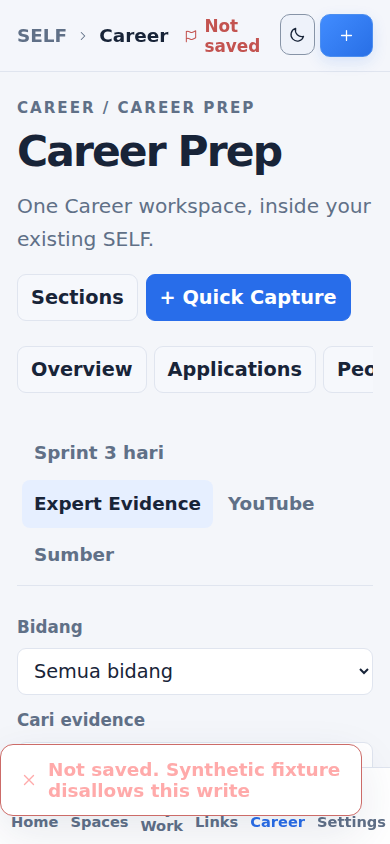
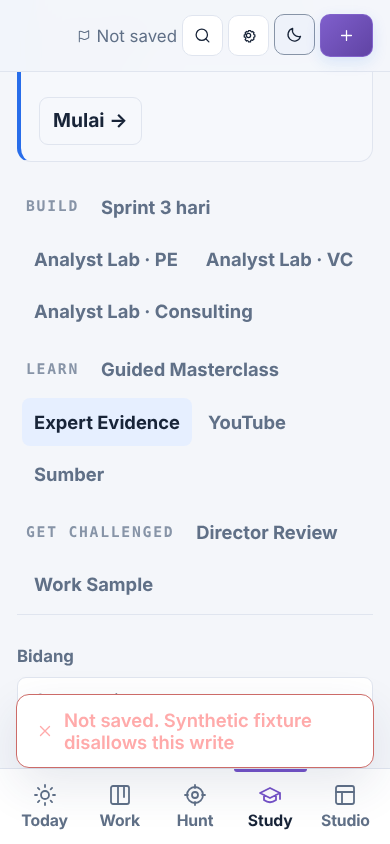
feat(multiuser): Study owner-only and untracked, Hunt open to everyone
- access.js gates Study (and Hunt Radar) to the owner account; other
  accounts get Today, Work, Hunt and Studio with no Study door, palette
  entry, page or synced progress.
- user_kv now syncs only Today pins and Work saved views.
- Hunt defaults made neutral: industries and drop reasons.
- Tests updated; new coverage for non-owner rooms and palette.

Claude-Session: https://claude.ai/code/session_01LD4i1vntGuNepnzdRNex5C

diff --git a/app.js b/app.js
@@ -78,7 +78,7 @@ function chrome(content,heading='Home'){
  const brand=`<div class="brand"><span class="brand-square">${ic('sparkle')}</span><span class="brand-text">SELF</span><button type="button" class="sidebar-toggle" data-action="toggle-sidebar" aria-label="${state.sidebarCollapsed?'Expand navigation':'Collapse navigation'}" aria-expanded="${!state.sidebarCollapsed}" title="${state.sidebarCollapsed?'Expand navigation':'Collapse navigation'}">${ic('menu')}</button></div>`;
  const foot=`<div class="sidebar-foot">${nav('settings','Settings','settings')}<div class="profile"><span class="avatar">${esc(name[0]||'S').toUpperCase()}</span><span class="profile-text"><strong>${esc(name)}</strong><small>Personal workspace</small></span></div></div>`;
  const R=useRooms()?window.SELFRooms:null;
- const rctx=R&&{view:state.view,careerPage:window.SELFCareer?.ui?.page,tasks:state.tasks,boards:state.boards,interviews:window.SELFCareerPhase2?.ui?.interviews,today:today(),ic,esc};
+ const rctx=R&&{study:studyOn(),view:state.view,careerPage:window.SELFCareer?.ui?.page,tasks:state.tasks,boards:state.boards,interviews:window.SELFCareerPhase2?.ui?.interviews,today:today(),ic,esc};
  const room=R?R.roomOf(state.view,rctx.careerPage):null;
  if(room)lastRoom=room;
  const enter=state.animateNext;state.animateNext=false;
@@ -253,9 +253,10 @@ else if(modal==='subpage')body=`<h2>Create a subpage</h2><p>Give this task room 
 return `<div class="modal-overlay" data-action="close-modal"><div class="modal"><div class="panel-top"><span class="small-sub">SELF / Quick create</span><button class="icon-btn" data-action="close-modal" title="Close">${ic('close')}</button></div>${body}</div></div>`}
 function renderAuth(){return `<div class="auth-shell"><div class="auth-visual"><div class="brand" style="color:#fff;padding-left:0"><span class="brand-square">${ic('sparkle')}</span> SELF</div><div><div class="eyebrow" style="color:#a8c4ff">Your space to think</div><h1>One place for<br/>all the things<br/>on your mind.</h1><p>Capture your ideas. Keep your work moving. Connect the pieces of what you're learning — all in a workspace that's yours.</p></div><div class="small-sub">✳ Made for a mind that never stops.</div></div><div class="auth-login"><div class="auth-box"><div class="brand" style="padding-left:0"><span class="brand-square">${ic('sparkle')}</span> SELF</div><h2>${state.loginMode==='signin'?'Welcome back.':'Create your space.'}</h2><p class="subtitle" style="margin-bottom:30px">${state.loginMode==='signin'?'Good to have you here. Let’s get something done.':'All you need is your email and a password.'}</p>${state.authMessage?`<p class="message ${state.authMessage.toLowerCase().includes('error')?'error':''}">${esc(state.authMessage)}</p>`:''}<form id="auth-form" class="form-stack"><label class="form-label">Email address<input class="field" type="email" name="email" autocomplete="email" required placeholder="you@example.com"/></label><label class="form-label">Password<input class="field" type="password" name="password" autocomplete="${state.loginMode==='signin'?'current-password':'new-password'}" required minlength="6" placeholder="At least 6 characters"/></label><button class="primary-btn" type="submit">${state.loginMode==='signin'?'Sign in':'Create account'} ${ic('chevron')}</button></form><div class="auth-bottom">${state.loginMode==='signin'?`New to SELF? <button data-action="auth-toggle">Create an account</button>`:`Already have an account? <button data-action="auth-toggle">Sign in</button>`}</div><p class="small-sub" style="margin-top:35px">Private workspace · Your tasks and notes are visible only to your account.</p></div></div></div>`}
 function render(){if(!state.user){$('#app').innerHTML=renderAuth();return}if(state.view==='board-editor'&&window.SELFBoards?.updateInPlace?.()){paintSave();return}const pages={home:['Home',useRooms()&&window.SELFToday?renderToday:renderHome],spaces:['Spaces',renderSpaces],space:['Space',renderSpace],boards:['Boards',renderBoards],'board-editor':['Whiteboard',()=>window.SELFBoards?.renderEditor?.()||empty('Board unavailable','Reload this page.')],work:['My Work',renderWork],career:['Career',()=>window.SELFCareer?.render?.()||empty('Career unavailable','Try reloading SELF.')],links:['My Links',renderLinks],inbox:['Inbox',renderInbox],search:['Search',renderSearch],settings:['Settings',renderSettings]};const [title,fn]=pages[state.view]||pages.home;$('#app').innerHTML=chrome(fn(),title);paintSave();window.SELFRooms?.afterRender?.();window.SELFDnd?.afterRender?.();window.SELFMotion?.afterRender?.()}
+const studyOn=()=>!!window.SELFAccess?.study?.(state.user);
 function go(view,opts={}){if(view!=='work')window.SELFWork?.leave?.();state.view=view;state.taskId=null;state.pageId=null;state.modal=null;if(view==='career'||view==='links')window.SELFCareer?.enter?.();if(view==='career'&&opts.room)window.SELFRooms?.alignCareer?.(opts.room);state.animateNext=true;render();window.scrollTo({top:0,behavior:'instant'})}
 async function changeTheme(next,origin){const to=next||(state.preferences.theme==='dark'?'light':'dark');const apply=()=>{setTheme(to);render()};if(window.SELFMotion)window.SELFMotion.themeSwitch(apply,origin);else apply();await mutate(async()=>savePref(),null)}
-function goRoom(id){const r=window.SELFRooms?.ROOMS.find(x=>x.id===id);if(r)go(r.view,{room:id})}
+function goRoom(id){if(!studyOn()&&id==='study')return;const r=window.SELFRooms?.ROOMS.find(x=>x.id===id);if(r)go(r.view,{room:id})}
 const urlRegex=/https?:\/\/[^\s<>"']+/gi;
 async function autoCaptureLinks(taskId,text){const urls=[...new Set((text.match(urlRegex)||[]).map(s=>s.replace(/[),.;!?]+$/,'')).filter(u=>normalUrl(u)))];const existing=state.links.filter(x=>x.task_id===taskId);for(const url of urls){if(!existing.some(x=>x.url===normalUrl(url))){await insert('task_links',{task_id:taskId,url:normalUrl(url),title:new URL(url).hostname})}}}
 function formData(form){return Object.fromEntries(new FormData(form).entries())}
@@ -353,7 +354,7 @@ document.addEventListener('dragstart',workDragStart);
 document.addEventListener('dragover',workDragOver);
 document.addEventListener('drop',e=>{workDrop(e).catch(error=>toast(error.message,true))});
 document.addEventListener('dragend',workDragEnd);
-document.addEventListener('keydown',e=>{if(window.SELFCareer?.keydown?.(e))return;if(window.SELFWork?.keydown?.(e))return;const rk=state.user&&window.SELFRooms?.roomForKey?.(e);if(rk){e.preventDefault();goRoom(rk);return}if(state.view==='work'&&state.workView==='board'&&e.target?.matches?.('[data-task-drag]')&&(e.key==='Enter'||e.key===' ')){e.preventDefault();state.taskId=e.target.dataset.taskDrag;state.panelTab='overview';render();return}if((e.ctrlKey||e.metaKey)&&e.key.toLowerCase()==='k'){e.preventDefault();if(state.user)go('search')}if(e.key==='Escape'){if(state.modal)state.modal=null;else if(state.pageId)state.pageId=null;else state.taskId=null;render()}if(e.key==='Enter'&&e.target?.id==='quick-text'){e.preventDefault();quickCapture().catch(err=>toast(err.message,true))}});
+document.addEventListener('keydown',e=>{if(window.SELFCareer?.keydown?.(e))return;if(window.SELFWork?.keydown?.(e))return;const rk=state.user&&window.SELFRooms?.roomForKey?.(e,studyOn());if(rk){e.preventDefault();goRoom(rk);return}if(state.view==='work'&&state.workView==='board'&&e.target?.matches?.('[data-task-drag]')&&(e.key==='Enter'||e.key===' ')){e.preventDefault();state.taskId=e.target.dataset.taskDrag;state.panelTab='overview';render();return}if((e.ctrlKey||e.metaKey)&&e.key.toLowerCase()==='k'){e.preventDefault();if(state.user)go('search')}if(e.key==='Escape'){if(state.modal)state.modal=null;else if(state.pageId)state.pageId=null;else state.taskId=null;render()}if(e.key==='Enter'&&e.target?.id==='quick-text'){e.preventDefault();quickCapture().catch(err=>toast(err.message,true))}});
 
 /* Private image assets for the authenticated Concept C whiteboard. */
 async function uploadBoardImage(file){
@@ -456,7 +457,7 @@ window.SELFPalette?.init?.({views:()=>window.SELFWork?.views?.()||[],applyView:i
  openTask:id=>{state.taskId=id;state.panelTab='overview';state.pageId=null;render()},
  openSpace:id=>{state.spaceId=id;state.spaceTab='tasks';go('space')},
  openBoard:id=>window.SELFBoards?.open?.(id),
- careerPage:page=>{const room=page==='learning'?'study':'hunt';go('career',{room});window.SELFCareer?.setPage?.(page)}});
+ careerPage:page=>{if(page==='learning'&&!studyOn())return;const room=page==='learning'?'study':'hunt';go('career',{room});window.SELFCareer?.setPage?.(page)}});
 window.SELFSync?.init?.({state:()=>state,request});window.SELFToday?.init?.({state:()=>state,esc,attr,ic,today,spaceOf,statusOf,dueBadge,rank:todayRank,insert,patch,del,mutate,toast,render,go});window.SELFReview?.init?.({host:{state:()=>state,today,render}});window.SELFNextUp?.init?.({host:{state:()=>state,render}});window.SELFWork?.init?.({host:{state:()=>state,patch,del,mutate,toast,render,go,STATUSES,PRIORITIES,statusName:s=>statusOf(s)[1]}});window.SELFExportUI?.init?.({host:{state:()=>state,toast}});
 verifySession();
 

diff --git a/career.js b/career.js
@@ -12,6 +12,7 @@ const HIRING=[['wishlist','Wishlist'],['applied','Applied'],['interviewing','Int
 const RELATIONSHIPS=[['new','Found'],['connect_sent','Connect sent'],['connected','Connected'],['reached_out','Approached'],['in_conversation','Talking'],['maintain','Ally'],['no_reply','No reply']];
 const TYPES={company:'career_companies',person:'career_people',application:'career_applications'};
 const names={company:'Company',person:'Person',application:'Application'};
+const studyOk=()=>!!window.SELFAccess?.study?.(host?.state?.()?.user);
 const ui={page:'tracker',railCollapsed:false,ready:false,loading:false,error:'',
  companies:[],people:[],applications:[],drawer:null,modal:null,dirty:false,busy:false,saveError:'',generation:0,owner:null};
 let host=null;
@@ -192,14 +193,16 @@ function drawerMarkup(){
  '<p class="career-drawer-note">Career status and Task status remain independent, with explicit links between records.</p></div></aside></div>';
 }
 /* ---- Rooms: Career is hosted inside the Hunt and Study rooms. The classic shell keeps its own rail. ---- */
-const HUNT_PILLS=[['tracker','Tracker'],['overview','Overview'],['applications','Pipeline'],['people','Outreach'],['companies','Companies'],['radar','Radar'],['interviews','Interviews'],['cvs','Kit']];
+const radarOk=()=>!!window.SELFAccess?.radar?.(host?.state?.()?.user);
+const HUNT_PILLS_ALL=[['tracker','Tracker'],['overview','Overview'],['applications','Pipeline'],['people','Outreach'],['companies','Companies'],['radar','Radar'],['interviews','Interviews'],['cvs','Kit']];
+const huntPillList=()=>HUNT_PILLS_ALL.filter(p=>p[0]!=='radar'||radarOk());
 const KIT_PAGES=[['cvs','CV Library'],['templates','Templates'],['reminders','Reminders']];
 const inKit=id=>KIT_PAGES.some(x=>x[0]===id);
 function huntPills(selected){
  const pill=([id,label])=>{const on=selected===id||(id==='cvs'&&inKit(selected));
   return '<button type="button" class="career-pill'+(on?' active':'')+'" data-career="page" data-page="'+id+'" aria-current="'+(on?'page':'false')+'">'+h(label)+'</button>'};
- return '<nav class="career-pills" aria-label="Hunt sections">'+HUNT_PILLS.map(pill).join('')+
-  '<button type="button" class="career-pill career-pill-link" data-career="page" data-page="learning" aria-current="false">Career Prep →</button></nav>'+
+ return '<nav class="career-pills" aria-label="Hunt sections">'+huntPillList().map(pill).join('')+
+  (studyOk()?'<button type="button" class="career-pill career-pill-link" data-career="page" data-page="learning" aria-current="false">Career Prep →</button>':'')+'</nav>'+
   (inKit(selected)?'<div class="career-kit-tabs" role="group" aria-label="Kit">'+KIT_PAGES.map(([id,label])=>
    '<button type="button" class="career-kit-tab'+(selected===id?' active':'')+'" data-career="page" data-page="'+id+'" aria-pressed="'+(selected===id)+'">'+h(label)+'</button>').join('')+'</div>':'');
 }
@@ -236,12 +239,13 @@ function render(){
  const selected=ui.page,title=PAGES.find(x=>x[0]===selected)?.[1]||'Overview';
  const nav=hosted?'<h2 class="sr-only">CAREER STUDIO</h2>':'<nav class="career-rail '+(ui.railCollapsed?'collapsed':'')+'" aria-label="Career subpages"><div class="career-rail-head"><strong>CAREER STUDIO</strong>'+
  button(ui.railCollapsed?'›':'‹','toggle-rail','aria-label="Toggle Career navigation"')+'</div>'+
- PAGES.map(([id,label,icon])=> (id==='cvs'?'<div class="career-rail-category">RESOURCES</div>':'')+
+ PAGES.filter(p=>(p[0]!=='learning'||studyOk())&&(p[0]!=='radar'||radarOk())).map(([id,label,icon])=> (id==='cvs'?'<div class="career-rail-category">RESOURCES</div>':'')+
  '<button type="button" class="career-subnav '+(selected===id?'active':'')+'" data-career="page" data-page="'+id+'" title="'+label+'" aria-current="'+(selected===id?'page':'false')+'">'+
  '<span class="career-nav-symbol">'+(host.icon?host.icon(icon,19):'•')+'</span><span class="career-nav-text">'+label+'</span></button>').join('')+
  '<div class="career-rail-footer">One Career workspace. SELF Tasks, Links and Boards stay connected.</div></nav>';
  let main='';
- if(selected==='learning')main=window.SELFCareerLearning?.render?.()||empty('Career Prep unavailable','Try reloading SELF.');
+ if(selected==='learning'&&!studyOk())main=empty('Not available','This section is not part of your workspace.');
+ else if(selected==='learning')main=window.SELFCareerLearning?.render?.()||empty('Career Prep unavailable','Try reloading SELF.');
  else if(ui.loading&&!ui.ready)main=empty('Opening Career…','Loading your private records.');
  else if(ui.error&&!ui.ready)main=empty('Career could not load',ui.error,primary('Retry loading','retry'));
  else if(selected==='tracker')main=window.SELFTrackerUI?.render?.()||empty('Tracker unavailable','Try reloading SELF.');
@@ -260,7 +264,7 @@ function render(){
  '<p>'+h(selected==='overview'?'Your next steps and actual records. No duplicate to-do system.':'One Career workspace, inside your existing SELF.')+'</p></div>'+
  (hosted?(selected==='learning'?'':'<div class="career-head-actions">'+primary('+ Quick Capture','quick-capture')+'</div>'):'<div class="career-head-actions">'+button('Sections','toggle-sections','aria-label="Choose Career subpage"')+
  primary('+ Quick Capture','quick-capture')+'</div>')+'</header>'+
- (hosted?'':'<div class="career-mobile-sections">'+PAGES.map(([id,label])=>button(label,'page','data-page="'+id+'" class="'+(selected===id?'active':'')+'"')).join('')+'</div>')+
+ (hosted?'':'<div class="career-mobile-sections">'+PAGES.filter(p=>(p[0]!=='learning'||studyOk())&&(p[0]!=='radar'||radarOk())).map(([id,label])=>button(label,'page','data-page="'+id+'" class="'+(selected===id?'active':'')+'"')).join('')+'</div>')+
  (ui.error&&ui.ready?'<p class="career-warning">'+h(ui.error)+' '+button('Retry','retry')+'</p>':'')+
  main+'</div>'+modalMarkup()+drawerMarkup()+(window.SELFCareerPhase2?.modalMarkup?.()||'')+(window.SELFOutreachUI?.overlay?.()||'')+'</div>';
 }
@@ -306,7 +310,7 @@ function enter(){
  if(!ui.ready&&!ui.loading)void load();
 }
 function setPage(id){
- if(!PAGES.some(x=>x[0]===id))return;
+ if(!PAGES.some(x=>x[0]===id)||(id==='learning'&&!studyOk())||(id==='radar'&&!radarOk()))return;
  if(ui.dirty&&!confirm('Discard unsaved edits?'))return;
  if(window.SELFCareerPhase3?.beforeNavigate?.()===false)return;
  window.SELFTrackerUI?.beforeNavigate?.();

diff --git a/rooms.js b/rooms.js
@@ -39,9 +39,11 @@ function doorMarkup(room,active,badge,ic,esc){
  return '<button type="button" class="door" data-action="nav" data-view="'+room.view+'" data-room="'+room.id+'" style="--c:var(--room-'+room.id+')" aria-current="'+(active?'page':'false')+'"'+
   ' aria-label="'+esc(room.label+(badge?' ('+badge.aria+')':''))+'">'+ic(room.icon,24)+'<span>'+esc(room.label)+'</span><small>'+(badge?esc(badge.text):'')+'</small></button>';
 }
+const PRIVATE=['study'];
+const visible=study=>study?ROOMS:ROOMS.filter(r=>!PRIVATE.includes(r.id));
 function doors(ctx){
  const active=roomOf(ctx.view,ctx.careerPage),b=badges(ctx);
- return '<span class="rail-ind" aria-hidden="true"></span>'+ROOMS.map(r=>doorMarkup(r,r.id===active,b[r.id],ctx.ic,ctx.esc)).join('');
+ return '<span class="rail-ind" aria-hidden="true"></span>'+visible(ctx.study).map(r=>doorMarkup(r,r.id===active,b[r.id],ctx.ic,ctx.esc)).join('');
 }
 function sidebar(ctx,brand,foot){
  return '<aside class="sidebar rooms-rail" aria-label="SELF navigation">'+brand+'<nav class="nav-items" aria-label="Rooms">'+doors(ctx)+'</nav>'+foot+'</aside>';
@@ -90,12 +92,12 @@ function afterRender(){
  if(room)last.room=room;
 }
 /* Alt+1..5 switches rooms, except while typing. Returns the room id or null. */
-function roomForKey(e){
+function roomForKey(e,study){
  if(!e.altKey||e.ctrlKey||e.metaKey)return null;
  const t=e.target;if(t&&(t.isContentEditable||/^(INPUT|TEXTAREA|SELECT)$/.test(t.tagName||'')))return null;
- const i=Number(e.key)-1;return Number.isInteger(i)&&i>=0&&i<ROOMS.length?ROOMS[i].id:null;
+ const i=Number(e.key)-1;return Number.isInteger(i)&&i>=0&&i<visible(study).length?visible(study)[i].id:null;
 }
-const api={ROOMS,WORK_PAGES,roomOf,badges,sidebar,bar,subnav,alignCareer,afterRender,roomForKey};
+const api={ROOMS,visible,WORK_PAGES,roomOf,badges,sidebar,bar,subnav,alignCareer,afterRender,roomForKey};
 root.SELFRooms=api;
 if(typeof module!=='undefined'&&module.exports)module.exports=api;
 })(typeof window!=='undefined'?window:globalThis);

diff --git a/palette.js b/palette.js
@@ -75,8 +75,8 @@ function trackItems(ctx,q){
 /* ctx: {tasks,spaces,boards,people,companies,links,statusName,spaceName,capture,canTrack}  ->  [{id,group,label,hint,idx,run}] in display order */
 function buildItems(ctx,query){
  const q=String(query||'').trim();
- const nav=[...ROOM_ITEMS.map(([id,label,hint])=>({group:'Go to',label:'Go to '+label,hint,run:{type:'room',room:id},key:label,offset:'Go to '.length,bonus:40})),
-  ...SECTIONS.map(s=>({group:s.run.type==='theme'?'Actions':'Go to',label:s.label,hint:s.hint,run:s.run})),
+ const nav=[...ROOM_ITEMS.filter(r=>ctx.study||r[0]!=='study').map(([id,label,hint])=>({group:'Go to',label:'Go to '+label,hint,run:{type:'room',room:id},key:label,offset:'Go to '.length,bonus:40})),
+  ...SECTIONS.filter(s=>ctx.study||s.run.page!=='radar').map(s=>({group:s.run.type==='theme'?'Actions':'Go to',label:s.label,hint:s.hint,run:s.run})),
   ...(ctx.views||[]).map(v=>({group:'Go to',label:'View · '+v.name,hint:'Saved Work view',run:{type:'saved-view',id:v.id}}))];
  if(!q)return [...nav.slice(0,5),...nav.filter(n=>['Settings','Search everything','Switch theme'].includes(n.label))].map((n,i)=>({...n,id:'i'+i,idx:[]}));
  const navHits=rank(nav.map(n=>({...n,label:n.label})),q,6);
@@ -108,6 +108,7 @@ function context(query){
  const st=host.state(),c=host.careerUi?.()||{};
  const ctx={tasks:[...st.tasks].sort((a,b)=>(a.status==='done')-(b.status==='done')),spaces:st.spaces,boards:st.boards,links:st.links,
   people:c.ready?c.people:[],companies:c.ready?c.companies:[],views:host.views?host.views():[],spaceName:id=>host.spaceName(id),statusName:s=>host.statusName(s)};
+ ctx.study=!!root.SELFAccess?.study?.(st.user);
  ctx.canTrack=!!host.track;
  ctx.capture=query.trim()?root.SELFCapture.parseCapture(query,{today:host.today(),spaces:st.spaces}):null;
  return ctx;

diff --git a/tracker.js b/tracker.js
@@ -9,9 +9,9 @@ const SOURCES=[['linkedin','LinkedIn'],['linkedin_jobs','LinkedIn Jobs'],['jobst
 const KINDS=[['job','Job'],['person','Person'],['company','Company'],['other','Other']];
 const STATUSES=[['inbox','Inbox'],['active','Active'],['waiting','Waiting'],['done','Done'],['dropped','Dropped']];
 const VIEWS=['today','inbox','all','stale'];
-const DROP_REASONS=['No Indonesia office','No Indonesians there','No vacancy in Indonesia','No careers page','Closed','Not a fit'];
+const DROP_REASONS=['No vacancy','Wrong location','No careers page','Closed','Not a fit'];
 const OUTCOMES=['Applied','Got a reply','Interview','Offer','Rejected','Other'];
-const INDUSTRIES=['Private Equity','Venture Capital','Investment Banking','Consulting','Corporate Finance / Strategy','Asset Management','Banking','Fintech','Tech','Other'];
+const INDUSTRIES=['Private Equity','Venture Capital','Investment Banking','Consulting','Corporate Finance / Strategy','Asset Management','Banking','Fintech','Tech','Software / IT','Healthcare','Education','Marketing / Media','Operations','Design','Other'];
 const STALE_DAYS=14;
 const label=(list,v)=>(list.find(x=>x[0]===v)||[v,v])[1];
 const sourceLabel=v=>label(SOURCES,v),kindLabel=v=>label(KINDS,v),statusLabel=v=>label(STATUSES,v);

diff --git a/user-sync.js b/user-sync.js
@@ -1,11 +1,10 @@
-/* SELF account sync: mirrors per-user browser settings (Today pins, Work saved views, Study progress, review deck,
-   Hunt drafts) into public.user_kv so they follow the account, not the device. Feature files keep reading and writing
+/* SELF account sync: mirrors per-user browser settings (Today pins and Work saved views) into public.user_kv so they follow the account, not the device. Feature files keep reading and writing
    localStorage unchanged; this layer wraps Storage writes for allow-listed keys, pushes them debounced, and pulls on sign-in.
    Sign-out flushes, then wipes the synced keys so the next person on a shared browser starts clean.
    If the table is missing or the network fails, everything keeps working from localStorage. Spec: docs/MULTIUSER_PLAN.md */
 (function(root){
 'use strict';
-const PREFIXES=['self.today.','self.views.','self.review.v1.','self.lesson.v2.','self.study.track.','self.dossier.','self.outreach.','self.tracker.'];
+const PREFIXES=['self.today.','self.views.'];
 const MAX_VALUE=262144;
 const synced=k=>typeof k==='string'&&k.length<=200&&PREFIXES.some(p=>k.startsWith(p))&&!/\.anon(\.|$)/.test(k);
 

diff --git a/access.js b/access.js
@@ -1,0 +1,11 @@
+/* SELF access: who gets Study (the personal finance-career curriculum). Everyone else gets Today, Work, Hunt and Studio:
+   no Study door, palette entry, page or synced progress. Hunt (Tracker, Pipeline, Outreach, Companies) is for every account.
+   This is a UI gate, not a security boundary: the lesson files are public static assets and Career tables are RLS-private. */
+(function(root){
+'use strict';
+const OWNERS=['4e02f8ef-4c27-4547-94a5-176476815a16'];
+const extra=()=>Array.isArray(root.__SELF_CAREER_OWNERS)?root.__SELF_CAREER_OWNERS:[];
+const study=user=>!!user&&typeof user.id==='string'&&(OWNERS.includes(user.id)||extra().includes(user.id));
+root.SELFAccess={study,radar:study,OWNERS};
+if(typeof module!=='undefined')module.exports=root.SELFAccess;
+})(typeof window!=='undefined'?window:globalThis);

diff --git a/index.html b/index.html
@@ -28,6 +28,7 @@
 </head>
 <body data-theme="dark">
   <div id="app"><div class="boot"><span class="boot-mark">✳</span><span>SELF</span></div></div>
+  <script defer src="./access.js"></script>
   <script defer src="./user-sync.js"></script>
   <script defer src="./rooms.js"></script>
   <script defer src="./motion.js"></script>

diff --git a/tools/build_cloudflare.py b/tools/build_cloudflare.py
@@ -6,7 +6,7 @@ import sys
 
 ROOT = Path(__file__).resolve().parent.parent
 OUTPUT = ROOT / "dist"
-ASSETS = ("index.html", "styles.css", "app.js", "user-sync.js", "rooms.js", "rooms.css", "motion.js", "motion.css", "self-dnd.js", "today.js", "capture-parse.js", "palette.js", "boards.css", "boards.js", "canvas-v3.css", "canvas-v3.js", "concept-d.css", "career.js", "career.css", "outreach.js", "outreach.css", "tracker.js", "tracker.css", "dossier.js", "dossier.css", "career-grid.js", "career-visuals.js", "career-review.js", "career-lesson-loop.js", "career-nextup.js", "career-lesson-loop.css", "data-export.js", "work-tools.js", "work-tools.css", "studio-recipes.js", "studio-present.js", "studio-tools.css", "content/studio-recipes.json", "content/career-lessons-v2.json", "career-phase2.js", "career-phase2.css", "career-phase3.js", "career-phase3.css", "career-learning.js", "career-teaching.js", "career-analyst-lab.js", "career-vc-analyst-lab.js", "career-vc-waterfall.js", "career-consulting-lab.js", "career-director-review.js", "career-workbook-check.js", "career-worksample.js", "content/work-samples/index.json", "content/work-samples/pe/brief.md", "content/work-samples/vc/brief.md", "content/work-samples/vc/holdout-cohorts.csv", "content/work-samples/consulting/brief.md", "content/work-samples/consulting/E01.csv", "content/work-samples/consulting/E02.csv", "content/work-samples/consulting/E03.csv", "content/work-samples/consulting/E04.csv", "content/work-samples/consulting/E05.csv", "content/work-samples/consulting/E06.csv", "content/career-director-review/review-panels.json", "career-pe-projection.js", "career-pe-sensitivity.js", "career-portfolio.js", "career-kits.js", "career-learning.css", "content/career-learning.json", "content/career-teaching.json", "content/portfolio-sprint.md", "content/career-kits/PE_LBO_Starter.xlsx.b64", "content/career-kits/VC_Investment_Starter.xlsx.b64", "content/career-kits/Consulting_Profitability_Starter.xlsx.b64")
+ASSETS = ("index.html", "styles.css", "app.js", "access.js", "user-sync.js", "rooms.js", "rooms.css", "motion.js", "motion.css", "self-dnd.js", "today.js", "capture-parse.js", "palette.js", "boards.css", "boards.js", "canvas-v3.css", "canvas-v3.js", "concept-d.css", "career.js", "career.css", "outreach.js", "outreach.css", "tracker.js", "tracker.css", "dossier.js", "dossier.css", "career-grid.js", "career-visuals.js", "career-review.js", "career-lesson-loop.js", "career-nextup.js", "career-lesson-loop.css", "data-export.js", "work-tools.js", "work-tools.css", "studio-recipes.js", "studio-present.js", "studio-tools.css", "content/studio-recipes.json", "content/career-lessons-v2.json", "career-phase2.js", "career-phase2.css", "career-phase3.js", "career-phase3.css", "career-learning.js", "career-teaching.js", "career-analyst-lab.js", "career-vc-analyst-lab.js", "career-vc-waterfall.js", "career-consulting-lab.js", "career-director-review.js", "career-workbook-check.js", "career-worksample.js", "content/work-samples/index.json", "content/work-samples/pe/brief.md", "content/work-samples/vc/brief.md", "content/work-samples/vc/holdout-cohorts.csv", "content/work-samples/consulting/brief.md", "content/work-samples/consulting/E01.csv", "content/work-samples/consulting/E02.csv", "content/work-samples/consulting/E03.csv", "content/work-samples/consulting/E04.csv", "content/work-samples/consulting/E05.csv", "content/work-samples/consulting/E06.csv", "content/career-director-review/review-panels.json", "career-pe-projection.js", "career-pe-sensitivity.js", "career-portfolio.js", "career-kits.js", "career-learning.css", "content/career-learning.json", "content/career-teaching.json", "content/portfolio-sprint.md", "content/career-kits/PE_LBO_Starter.xlsx.b64", "content/career-kits/VC_Investment_Starter.xlsx.b64", "content/career-kits/Consulting_Profitability_Starter.xlsx.b64")
 
 
 def main() -> int:
@@ -26,7 +26,7 @@ def main() -> int:
         print(f"  copied {asset} -> dist/{asset}")
 
     html = (OUTPUT / "index.html").read_text(encoding="utf-8")
-    required = ('href="./styles.css"', 'href="./rooms.css"', 'href="./motion.css"', 'src="./user-sync.js"', 'src="./rooms.js"', 'src="./motion.js"', 'src="./self-dnd.js"', 'src="./today.js"', 'src="./capture-parse.js"', 'src="./palette.js"', 'href="./boards.css"', 'src="./canvas-v3.js"', 'href="./canvas-v3.css"', 'href="./concept-d.css"', 'href="./career.css"', 'src="./career.js"', 'src="./outreach.js"', 'src="./tracker.js"', 'src="./dossier.js"', 'href="./dossier.css"', 'href="./outreach.css"', 'href="./tracker.css"', 'src="./career-grid.js"', 'src="./career-visuals.js"', 'src="./career-review.js"', 'src="./career-lesson-loop.js"', 'src="./career-nextup.js"', 'href="./career-lesson-loop.css"', 'src="./data-export.js"', 'src="./work-tools.js"', 'href="./work-tools.css"', 'src="./studio-recipes.js"', 'src="./studio-present.js"', 'href="./studio-tools.css"', 'src="./career-phase2.js"', 'href="./career-phase2.css"', 'src="./career-phase3.js"', 'href="./career-phase3.css"', 'src="./app.js"', 'src="./career-learning.js"', 'src="./career-teaching.js"', 'src="./career-analyst-lab.js"', 'src="./career-vc-analyst-lab.js"', 'src="./career-vc-waterfall.js"', 'src="./career-consulting-lab.js"', 'src="./career-director-review.js"', 'src="./career-workbook-check.js"', 'src="./career-worksample.js"', 'src="./career-pe-projection.js"', 'src="./career-pe-sensitivity.js"', 'src="./career-portfolio.js"', 'src="./career-kits.js"', 'href="./career-learning.css"')
+    required = ('href="./styles.css"', 'href="./rooms.css"', 'href="./motion.css"', 'src="./access.js"', 'src="./user-sync.js"', 'src="./rooms.js"', 'src="./motion.js"', 'src="./self-dnd.js"', 'src="./today.js"', 'src="./capture-parse.js"', 'src="./palette.js"', 'href="./boards.css"', 'src="./canvas-v3.js"', 'href="./canvas-v3.css"', 'href="./concept-d.css"', 'href="./career.css"', 'src="./career.js"', 'src="./outreach.js"', 'src="./tracker.js"', 'src="./dossier.js"', 'href="./dossier.css"', 'href="./outreach.css"', 'href="./tracker.css"', 'src="./career-grid.js"', 'src="./career-visuals.js"', 'src="./career-review.js"', 'src="./career-lesson-loop.js"', 'src="./career-nextup.js"', 'href="./career-lesson-loop.css"', 'src="./data-export.js"', 'src="./work-tools.js"', 'href="./work-tools.css"', 'src="./studio-recipes.js"', 'src="./studio-present.js"', 'href="./studio-tools.css"', 'src="./career-phase2.js"', 'href="./career-phase2.css"', 'src="./career-phase3.js"', 'href="./career-phase3.css"', 'src="./app.js"', 'src="./career-learning.js"', 'src="./career-teaching.js"', 'src="./career-analyst-lab.js"', 'src="./career-vc-analyst-lab.js"', 'src="./career-vc-waterfall.js"', 'src="./career-consulting-lab.js"', 'src="./career-director-review.js"', 'src="./career-workbook-check.js"', 'src="./career-worksample.js"', 'src="./career-pe-projection.js"', 'src="./career-pe-sensitivity.js"', 'src="./career-portfolio.js"', 'src="./career-kits.js"', 'href="./career-learning.css"')
     if not all(reference in html for reference in required):
         print("SELF build failed: index.html asset references changed.", file=sys.stderr)
         return 1

diff --git a/docs/MULTIUSER_PLAN.md b/docs/MULTIUSER_PLAN.md
@@ -1,6 +1,6 @@
 # SELF multi-user plan (open signups)
 
-Goal: anyone can create an account; every account sees only its own data. Rooms in scope: **Today, Work, Study, Studio**. Hunt stays Rey's personal room for now.
+Goal: anyone can create an account; every account sees only its own data. Rooms for everyone: **Today, Work, Hunt, Studio**. **Study** (finance-career curriculum) is owner-only and untracked: `access.js` lists the owner user id; other accounts get no Study door, palette entry, page or synced progress. Hunt Radar (finance clusters, Jakarta) is owner-only too. Hunt Tracker, Pipeline, Outreach, Companies, Interviews and Kit are open to everyone, with neutral industries and drop reasons.
 
 ## Already true (audited 2026-10-26, project `btiwxqjiptbwaunjibjh`)
 - Supabase Auth email + password with signup.
@@ -9,11 +9,11 @@ Goal: anyone can create an account; every account sees only its own data. Rooms 
 - Security advisor: only "leaked password protection disabled" (dashboard setting, not code).
 
 ## Phase A: account-bound settings (this PR)
-Today pins, Work saved views, Study progress/track, flashcard deck and Hunt drafts lived only in one browser.
-`user-sync.js` mirrors allow-listed `localStorage` keys into `public.user_kv` (RLS, 2000 keys/account, 256 KB/value).
+Today pins and Work saved views lived only in one browser (Study and Hunt drafts are deliberately NOT synced).
+`user-sync.js` mirrors allow-listed `localStorage` keys (`self.today.*`, `self.views.*`) into `public.user_kv` (RLS, 2000 keys/account, 256 KB/value).
 - Remote wins on sign-in; local-only keys upload once. Sign-out flushes, then wipes synced keys (shared computers).
 - If the table is missing or offline, the app keeps working from localStorage.
-- **Migration `20261026000000_self_user_kv.sql` must be applied before deploy to take effect** (no-op until then).
+- Migration `20261026000000_self_user_kv.sql` is applied to project `btiwxqjiptbwaunjibjh` (2026-10-26). Cross-account isolation was checked by hand with two real accounts.
 
 ## Phase B: onboarding (next)
 Password reset, clearer verify-email flow, first-run empty states per room, Hunt hidden behind a flag for new users.
